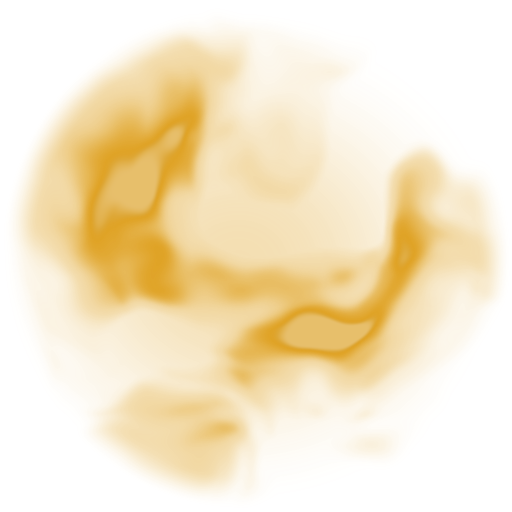
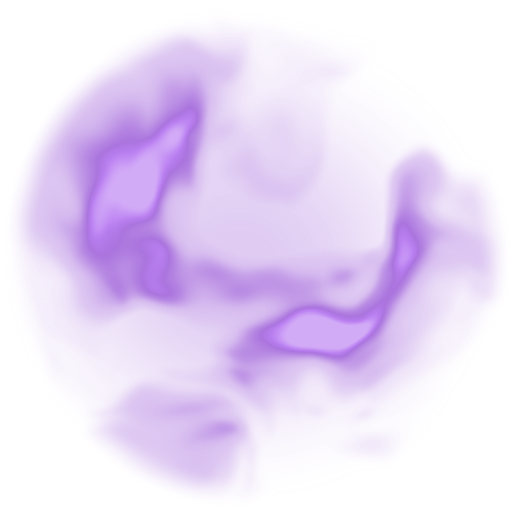
Colours: primary #c485ff, secondary #ffffff, buttons #944bff (Color studio)

diff --git a/app/globals.css b/app/globals.css
@@ -62,9 +62,9 @@
  * Dark-first: výchozí je tmavé téma. Slider v rohu mění --brand-h / --brand-c.
  */
 :root {
-  --brand-h: 78.8;
-  --brand-c: 0.1522;
-  --brand-l-adj: -0.0184; /* ±0.08: posun světlosti akcentu (tlačítka, výplně, glow) */
+  --brand-h: 306.3;
+  --brand-c: 0.1798;
+  --brand-l-adj: -0.0512; /* ±0.08: posun světlosti akcentu (tlačítka, výplně, glow) */
 
   --brand: oklch(calc(0.78 + var(--brand-l-adj)) var(--brand-c) var(--brand-h));
   --brand-strong: oklch(calc(0.7 + var(--brand-l-adj)) var(--brand-c) var(--brand-h));
@@ -75,9 +75,9 @@
   --on-brand: oklch(0.2 0.02 var(--brand-h));
 
   /* Barva tlačítek a barevných nadpisů. Výchozí = primární; Color studio ji umí nastavit zvlášť. */
-  --cta-h: var(--brand-h);
-  --cta-c: var(--brand-c);
-  --cta-l-adj: var(--brand-l-adj);
+  --cta-h: 296.6;
+  --cta-c: 0.2496;
+  --cta-l-adj: -0.1806;
   --cta: oklch(calc(0.78 + var(--cta-l-adj)) var(--cta-c) var(--cta-h));
   --cta-text: var(--cta);
 
@@ -89,14 +89,14 @@
 
   /* Tmavé téma (výchozí) */
   /* Pozadí: světlost / sytost / odstín jedné barvy (Color studio), ostatní neutrály jsou její odvozeniny */
-  --bgd-l: 0.2058;
-  --bgd-c: 0.0066;
-  --bgd-h: 78.2;
-  --bgl-l: 0.985;
-  --bgl-c: 0.005;
-  --bgl-h: var(--brand-h);
+  --bgd-l: 0.2891;
+  --bgd-c: 0;
+  --bgd-h: 0;
+  --bgl-l: 0.9337;
+  --bgl-c: 0.0325;
+  --bgl-h: 282;
   /* tmavé karty s kouřem (před/po, srovnání, závěrečné CTA): o kus tmavší než pozadí, takže se mění s Color studiem */
-  --smoke-bg: oklch(max(0.04, calc(var(--bgd-l) - 0.1)) var(--bgd-c) var(--bgd-h));
+  --smoke-bg: oklch(max(0.04, calc(var(--bgd-l) - 0.03)) var(--bgd-c) var(--bgd-h));
   --bg: oklch(var(--bgd-l) var(--bgd-c) var(--bgd-h));
   --bg-deep: oklch(calc(var(--bgd-l) - 0.035) var(--bgd-c) var(--bgd-h));
   --surface: oklch(calc(var(--bgd-l) + 0.04) calc(var(--bgd-c) + 0.002) var(--bgd-h));

diff --git a/components/ColorStudio.tsx b/components/ColorStudio.tsx
@@ -16,7 +16,7 @@ import { makePack, updateFavicon } from '@/lib/brandAssets';
 
 const KEY = 'brand-v6';
 type Brand = { p: string; s: string; h: number; c: number; l: number; bd: string; bl: string; a: string };
-const DEF: Brand = { p: '#e5a41d', s: '#ffffff', h: 78.8, c: 0.1522, l: -0.0184, bd: '#191714', bl: '', a: '' };
+const DEF: Brand = { p: '#c485ff', s: '#ffffff', h: 306.3, c: 0.1798, l: -0.0512, bd: '#2b2b2b', bl: '#e5e7ff', a: '#944bff' };
 const BG_KEY = 'brand-bg-v1'; // spočítané CSS proměnné pozadí; layout.tsx je obnoví před prvním vykreslením
 
 const round = (n: number, d = 3) => +n.toFixed(d);
